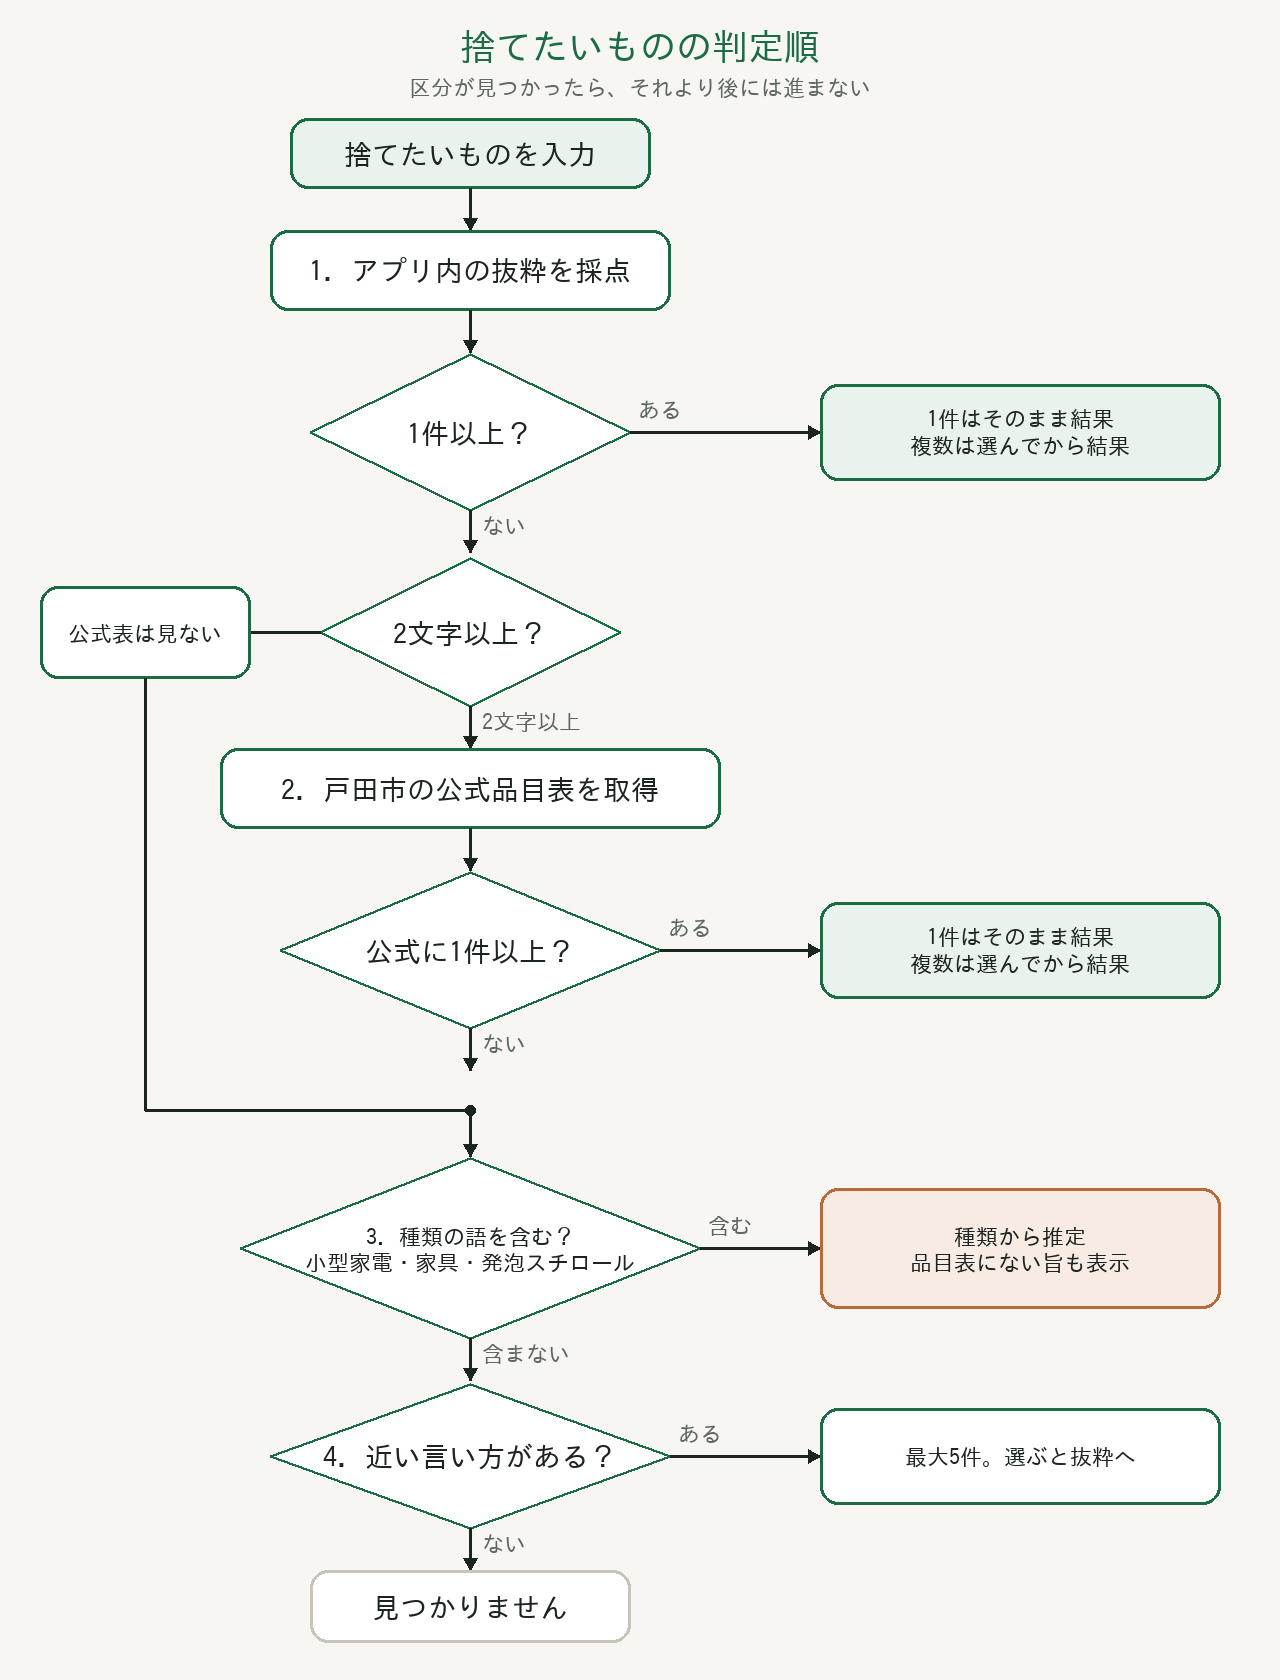
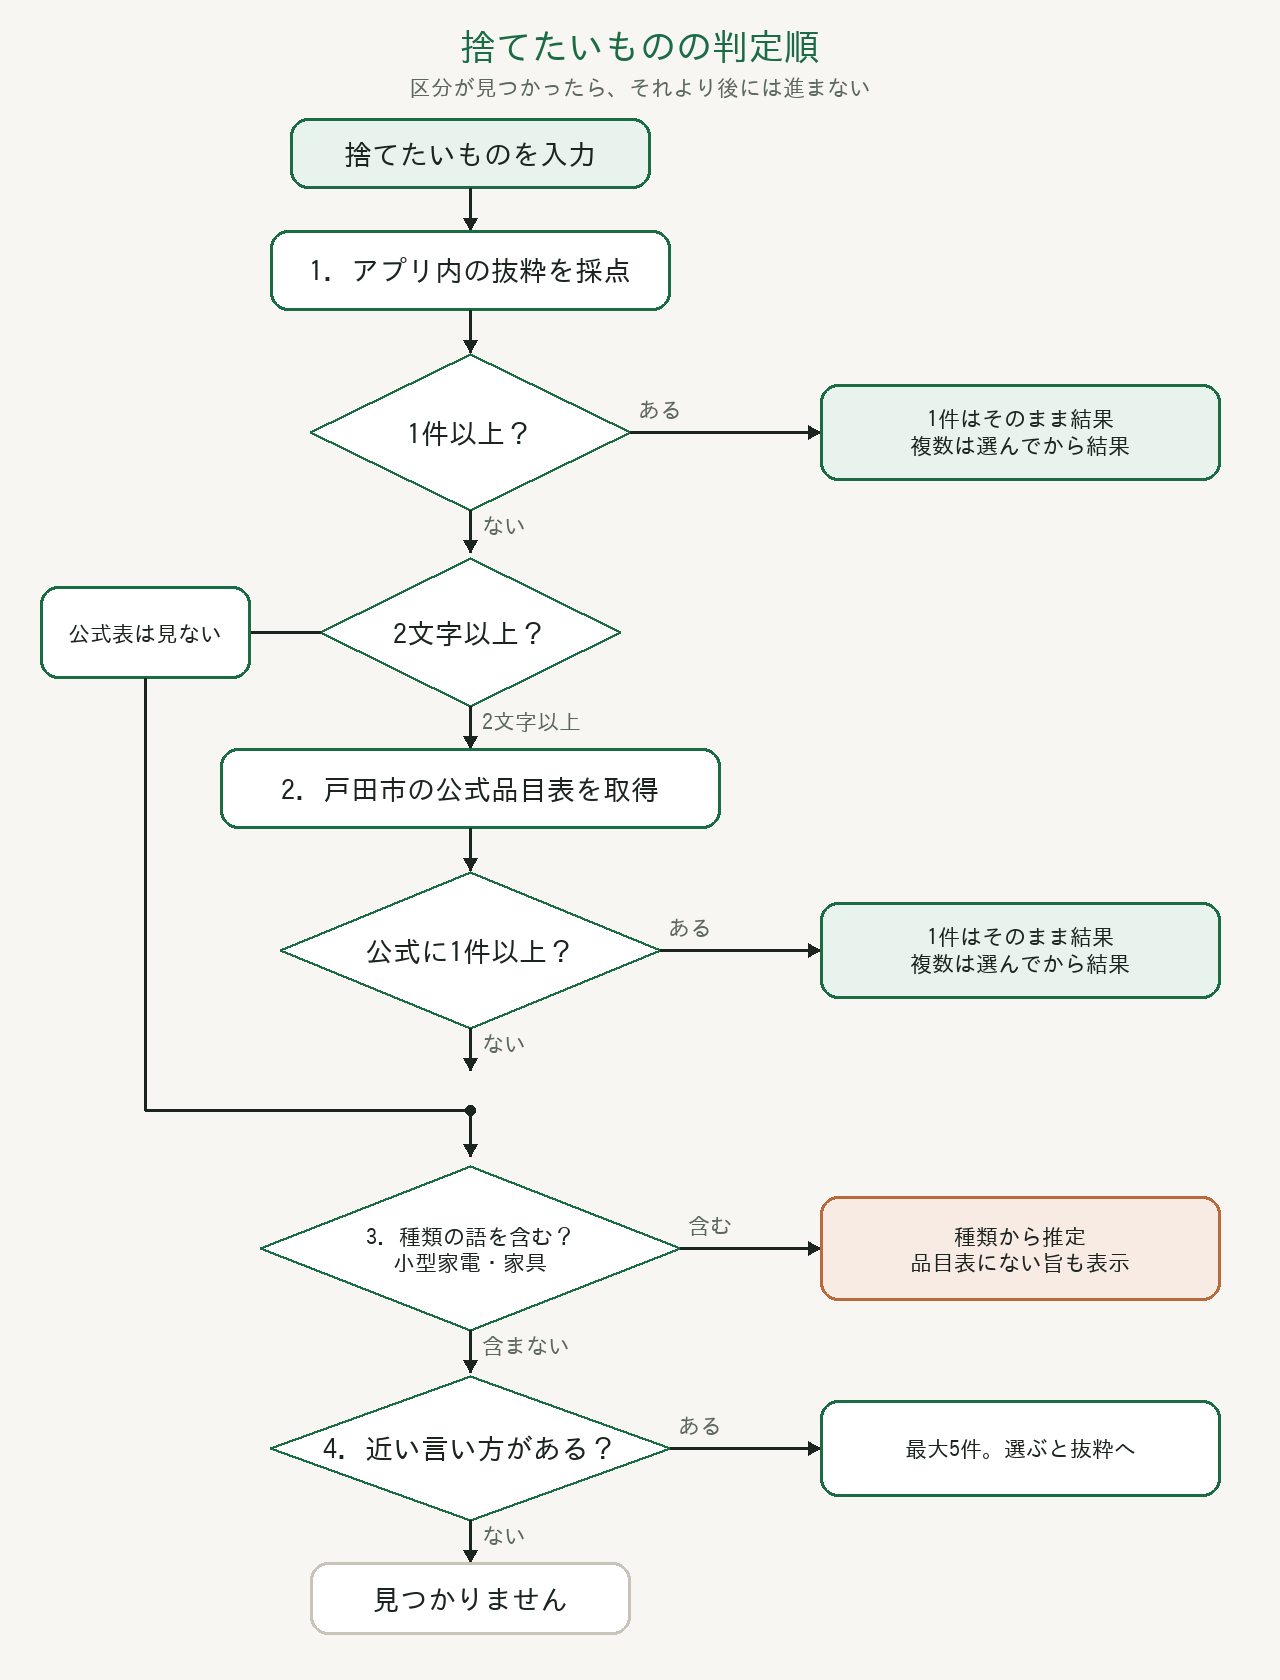
発泡スチロールの特例を外す。
種類の推定は小型家電と粗大ごみだけにする。

diff --git a/src/routes/index.tsx b/src/routes/index.tsx
@@ -11,7 +11,6 @@ import {
   inferType,
   isClosure,
   nextCollection,
-  normalize,
   searchItems,
   suggestItems,
   tokyoStamp,
@@ -20,11 +19,6 @@ import {
 } from "@/data/toda";
 import { lookupOfficial } from "@/lib/official-lookup";
 import type { OfficialRow } from "@/data/official-list";
-
-function isPackingFoam(q: string): boolean {
-  const s = normalize(q);
-  return ["発泡スチロール", "緩衝材", "梱包材", "スチロール"].some((word) => s.includes(normalize(word)));
-}
 
 export const Route = createFileRoute("/")({ component: Home });
 
@@ -94,7 +88,6 @@ function Home() {
     () => (query.trim() && matches.length === 0 ? inferType(query) : null),
     [query, matches.length],
   );
-  const foam = query.trim() !== "" && matches.length === 0 && isPackingFoam(query);
   const picked =
     (pickedId ? ITEMS.find((it) => it.id === pickedId) : undefined) ??
     (matches.length === 1 ? matches[0] : undefined);
@@ -191,22 +184,20 @@ function Home() {
             <>
               <p className="text-muted">
                 {officialState === "error"
-                  ? foam || guess
+                  ? guess
                     ? "公式の品目表をただいま確認できません。種類から推定します。"
                     : "公式の品目表をただいま確認できません。近い言い方を選んでください。"
                   : query.trim().length < 2
-                    ? foam || guess
+                    ? guess
                       ? "1文字のため公式の品目表は見ていません。種類から推定します。"
                       : "1文字のため公式の品目表は見ていません。近い言い方を選んでください。"
-                    : foam
-                      ? `「${query.trim()}」は戸田市の品目表にありません。種類から「梱包用の発泡スチロール」と推定します。`
-                      : guess
-                        ? `「${query.trim()}」は戸田市の品目表にありません。種類から「${guess.typeName}」と推定します。`
-                        : officialState === "ready"
-                          ? `「${query.trim()}」はそのままでは見つかりません。戸田市の品目表にもありません。近い言い方を選んでください。`
-                          : `「${query.trim()}」はそのままでは見つかりません。近い言い方を選んでください。`}
+                    : guess
+                      ? `「${query.trim()}」は戸田市の品目表にありません。種類から「${guess.typeName}」と推定します。`
+                      : officialState === "ready"
+                        ? `「${query.trim()}」はそのままでは見つかりません。戸田市の品目表にもありません。近い言い方を選んでください。`
+                        : `「${query.trim()}」はそのままでは見つかりません。近い言い方を選んでください。`}
               </p>
-              {suggestions.length > 0 && !foam && !guess ? (
+              {suggestions.length > 0 && !guess ? (
                 <ul className="mt-2">
                   {suggestions.map((it) => (
                     <li key={it.id} className="border-t border-line">
@@ -225,11 +216,7 @@ function Home() {
                   ))}
                 </ul>
               ) : null}
-              {foam ? (
-                <div className="mt-3 border-t border-line pt-3">
-                  <FoamAnswer district={district} />
-                </div>
-              ) : guess ? (
+              {guess ? (
                 <div className="mt-3 border-t border-line pt-3">
                   <Result
                     district={district}
@@ -354,52 +341,6 @@ function Result({ district, item }: { district: District; item: Item }) {
       </dl>
 
       {item.slot === "sodai" ? <SodaiGuide /> : null}
-    </article>
-  );
-}
-
-function FoamAnswer({ district }: { district: District }) {
-  const patterns = [
-    {
-      when: "プラマークがある",
-      kind: "プラマーク容器包装",
-      day: `もやさないごみの日（毎週${formatDays(district.days.moyasanai)}曜日）`,
-      how: "白色半透明または透明の袋。食品トレイと同じです。",
-    },
-    {
-      when: "プラマークがない",
-      kind: "もやすごみ",
-      day: `もやすごみの日（毎週${formatDays(district.days.moyasu)}曜日）`,
-      how: "白色半透明または透明の袋。緩衝材の塊は、こちらが多いです。",
-    },
-    {
-      when: "1辺が40cm以上",
-      kind: "粗大ごみ",
-      day: "マークの有無にかかわらず、申込み制",
-      how: "指定日の朝8時までに出します。",
-    },
-  ];
-
-  return (
-    <article className="mb-4 rounded-xl border border-line bg-surface px-4 py-3 text-sm leading-relaxed">
-      <p>梱包用の発泡スチロールは、次の3つです。段ボールとは別に出します。</p>
-      <ol className="mt-3 space-y-2">
-        {patterns.map((pattern, index) => (
-          <li key={pattern.kind} className="rounded-xl border border-line px-3 py-3">
-            <p className="text-xs font-medium text-muted">パターン{index + 1}</p>
-            <p className="mt-0.5 font-bold">{pattern.when}</p>
-            <p className="mt-1 inline-flex rounded-full bg-chip px-3 py-1 text-sm font-medium text-primary">
-              {pattern.kind}
-            </p>
-            <p className="mt-2">{pattern.day}</p>
-            <p className="text-muted">{pattern.how}</p>
-          </li>
-        ))}
-      </ol>
-      <p className="mt-3 text-muted">
-        外側の段ボールは資源物です。資源物の日（毎週{formatDays(district.days.shigen)}
-        曜日）に、ひもで結んで出します。発泡スチロールとは混ぜません。
-      </p>
     </article>
   );
 }

diff --git a/README.md b/README.md
@@ -25,7 +25,7 @@
 3. 種類からの推定
 4. 近い言い方
 
-梱包用の発泡スチロールは1段目ではありません。1と2に無いときだけ、3段目で扱います。1文字の入力は2段目を飛ばして3段目へ進みます。公式表の取得に失敗したときも、3段目へ進み、そこで決まらなければ4段目です。近い言い方を選ぶと、選んだ名前で1段目から照合し直します。
+1文字の入力は2段目を飛ばして3段目へ進みます。公式表の取得に失敗したときも、3段目へ進み、そこで決まらなければ4段目です。近い言い方を選ぶと、選んだ名前で1段目から照合し直します。
 
 ![捨てたいものの判定順](docs/match-flow.png)
 
@@ -74,12 +74,8 @@ https://www.city.toda.saitama.jp/soshiki/212/kankyo-cl-gomi-list.html
 
 ### 3. 種類からの推定
 
-公式の品目表にもないとき、または公式表を見ていないとき（1文字、取得失敗）に、入力が次の語を含むかを見ます。
+公式の品目表にもないとき、または公式表を見ていないとき（1文字、取得失敗）に、入力が次の語を含むかを見ます。長く一致した語を優先します。
 
-先に梱包用の発泡スチロールの語を見ます。当たれば、それ以外の種類は見ません。
-
-- 梱包用の発泡スチロール: 「発泡スチロール」「緩衝材」「梱包材」「スチロール」。プラマークの有無と、1辺が40cm以上かで3つに分けます。外側の段ボールは資源物です。
-- 当たらないとき、小型家電と粗大ごみを見ます。長く一致した語を優先します。
 - 小型家電: トースター、加湿器、アイロン、ルーター、ルータ、無線、モデム など
 - 粗大ごみ: ベッド、学習机、本棚、食器棚、カーペット、スーツケース、ベビーベッド
 
